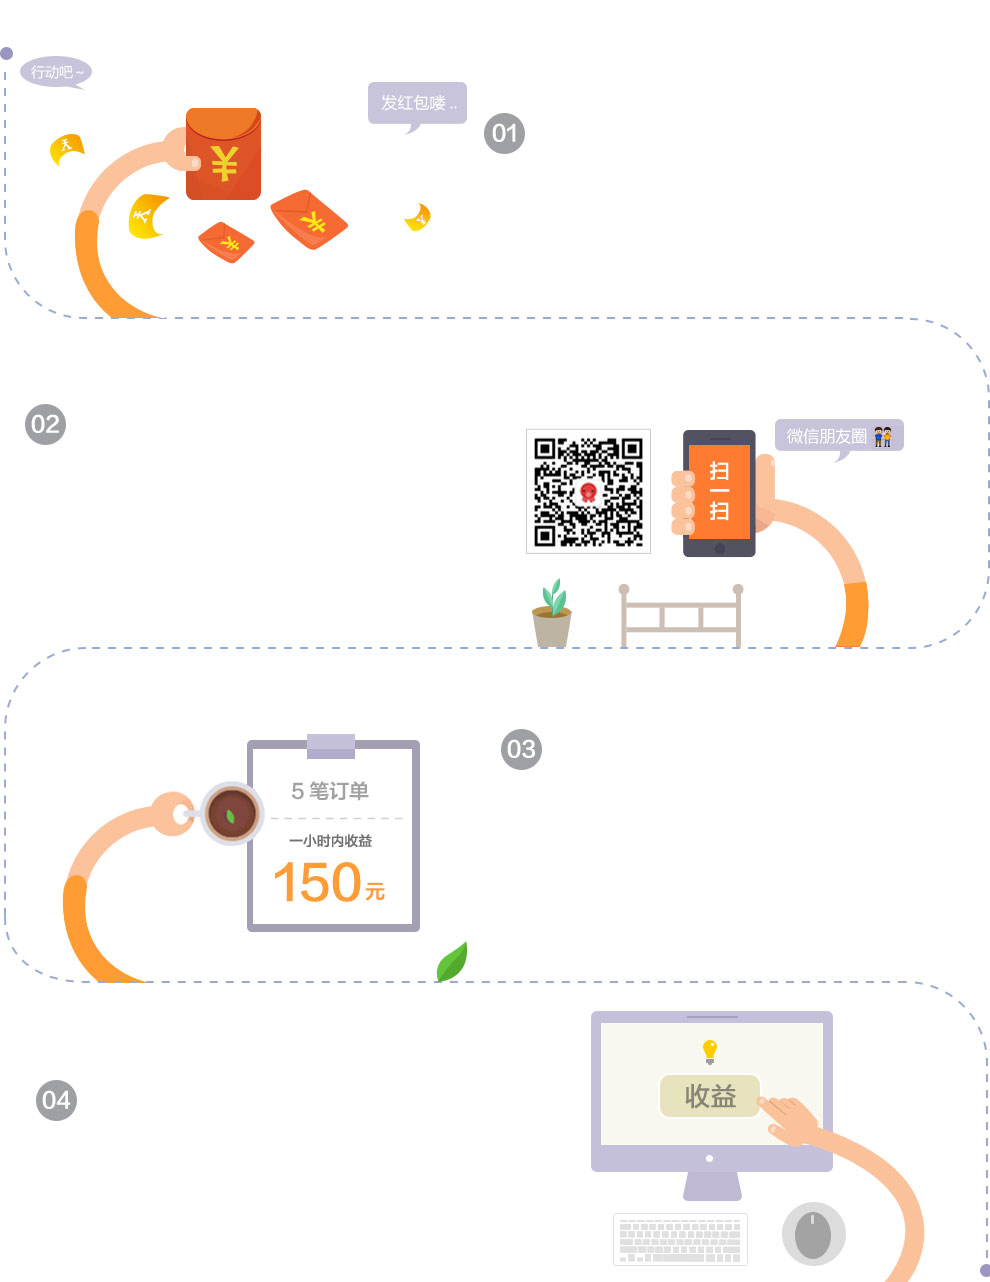
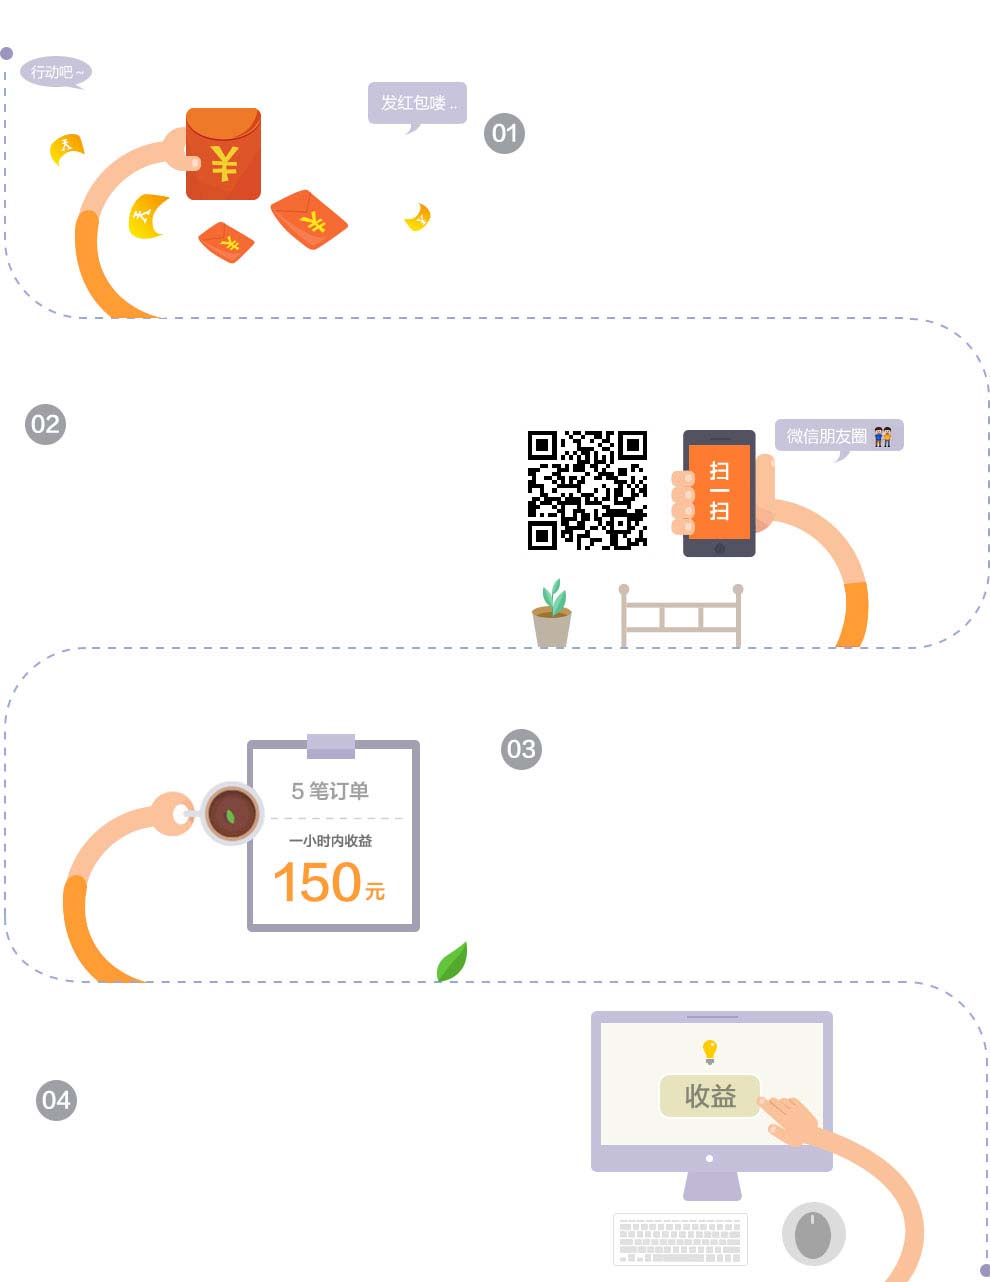
LAXIN-11 老带新---pc端活动页

diff --git a/app/scripts/center/sf.b2c.mall.center.invitationcontent.js b/app/scripts/center/sf.b2c.mall.center.invitationcontent.js
@@ -151,15 +151,14 @@ define('sf.b2c.mall.center.invitationcontent', [
         var getUserInfo = new SFGetUserInfo();
         getUserInfo.sendRequest()
           .done(function(userinfo) {
-            var url = "http://www.sfht.com?_src=" + userinfo.userId;
             var qrParam = {
               width: 125,
               height: 125,
-              text: url
+              text: "http://m.sfht.com?_src=" + userinfo.userId
             };
 
             $('#shareURLQrcode').html("").qrcode(qrParam);
-            $('#urlinput').val(url);
+            $('#urlinput').val("http://www.sfht.com?_src=" + userinfo.userId);
           })
           .fail()
       },
